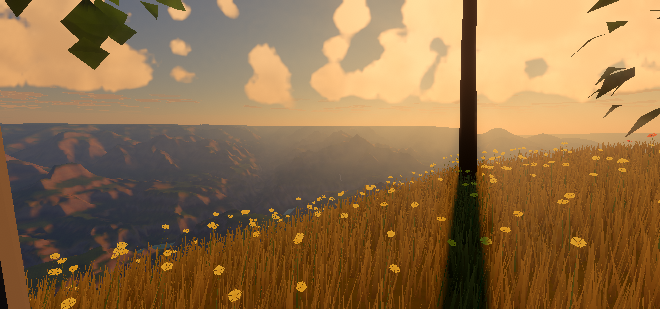
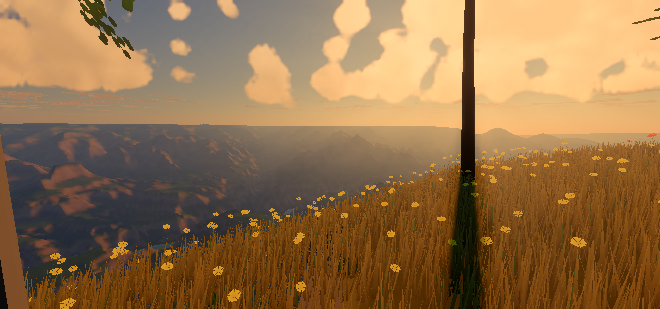
Fifth painted delivery: handoff, roadmap, guide, reference pictures
Claude-Session: https://claude.ai/code/session_01R5BrhzGbvM5Mm4BP5vZBtE

diff --git a/docs/PROGRESS.md b/docs/PROGRESS.md
@@ -6,11 +6,11 @@ changes behaviour.
 
 ## Where things stand (read this first)
 
-### HANDOFF: work in flight (trees, fifth pass) — read this before anything else
+### HANDOFF: the trees' fifth pass — delivered; read this before anything else
 
-*Written 2026-11-22 while the work was under way, at the owner's request ("write a handoff
-so the next session knows exactly what you're doing"). Kept current after every step; the
-last line of this block says how far it got.*
+*Written 2026-11-22 at the owner's request ("write a handoff so the next session knows
+exactly what you're doing"). The fifth pass is merged and live; this block says what it
+is, what is weak, and what to do next.*
 
 **What the owner said** (twice, the second time word for word the same): *"Make them look
 even better, the trees still don't look anywhere near the reference. I want an almost
@@ -24,8 +24,7 @@ silhouettes in layers, each lighter and bluer with distance. Low-polygon lumps a
 triangles (the fourth delivery, live as build 9d6e42e) are a different style altogether:
 no tuning of them gets there.
 
-**What is being built** (branch `ccr-6f4f9272-64jkgl`, commit dfdc7d1 and after; **not
-merged, not live**):
+**What was built:**
 - `src/life/treeAtlasLayout.js`: where things are in the trees' picture (2048 x 1024:
   twelve sprays of 256 on the left, 8 shapes x 3 variants of whole trees on the right).
 - `src/life/treeAtlasGen.js`: draws that picture by rule, in plain JavaScript (runs in
@@ -54,44 +53,37 @@ merged, not live**):
 - Triangles a tree are now 150 to 420 close, 100 to 260 near, 6 far (they were up to
   2 200, 800, 380): much less geometry, more cut-out pixels. Not measured on the phone.
 
-**How far it got, and what is next, in order:**
-1. Done: the picture, the meshes, the shader, the preview (the sheets look like the
-   references' trees: see `docs/shots/trees_sheet_1.png`, `_2.png` once refreshed).
-2. In progress: the first pictures in the real game (`$S/shoot.sh t1 ...`: spruce forest
-   `lat=36.42&lon=247.87&heading=80&pitch=4&fov=60&east=9&north=4`, the opening view,
-   the hardwood forest `lat=44.05&lon=287.4&heading=290&pitch=8&fov=60&t=8.5`, from the
-   air `...&heading=75&pitch=-12&fov=60&alt=120`). Look for: shader errors (a new sampler
-   and `aUv`), cards seen edge-on, foliage too thin or too see-through, far silhouettes
-   too soft at 115 m, the crown's light and dark.
-3. Then tune toward the references: darker, bluer-green conifers with the trunk dark;
-   stronger dark-to-light across each crown; far trees flatter and darker (silhouettes
-   in layers); the aspen's near mesh is thin; the bush's top spray is too large.
-4. Then: `./scripts/build-check.sh`, `npm run smoke` (checks every shader against the
-   phone's limits), refresh `docs/shots/` (forests, opening view, tree sheets), add the
-   picture to `docs/ASSETS.md` (made by our own script: no outside source), update
-   `docs/ARCHITECTURE.md` ("Tree shapes"), merge by pull request, send the checkpoint and
-   **ask for an Earth benchmark** (cut-out foliage is new cost on the phone).
-5. Known and not yet dealt with: bare trees in winter (cards shrink to the trunk; the
-   far silhouette keeps its leaves); autumn colour on wood pixels inside cards is right
-   (wood is told apart by the picture's third byte); the leaves that fall (`leaves.js`)
-   are untouched; the palm keeps plain faces.
+**Delivered** (the fifth painted delivery): all of the above, merged and live. Tested:
+build check, `npm run smoke` (16 checks, every shader within the phone's limits),
+pictures in the game of the spruce forest, the hardwood forest, the forest from the air
+and over the tree tops to the horizon, the opening view; the tree sheets. A closed
+forest's trees are 166 000 triangles (they were 620 000 at the fourth delivery).
+Reference pictures: `docs/shots/earth_forest_spruce.png`, `_hardwood`, `_air`, `_tops`,
+`trees_sheet_1.png`, `_2.png`.
 
-**State at the last update of this block:** steps 1 to 3 done, step 4 under way. Seen in
-the game: the spruce forest, the hardwood forest (twice; trunks slimmed), the forest from
-the air and over the tree tops, the opening view; no shader errors; a closed forest's
-trees are 166 000 triangles (they were 620 000). Reference pictures and the two tree
-sheets in `docs/shots/` are refreshed; `docs/ASSETS.md` and `docs/ARCHITECTURE.md` are
-written. Running as this is written: build `dist_t3` (the last shader change: light
-through foliage against the Sun 0.4), two pictures, then `npm run smoke` on it
-(`$S/smoke_t3.txt`, must end `SMOKE 0`). **Left**: if smoke passes, open the pull
-request into `main`, merge, confirm the deploy, send the checkpoint and ask for an Earth
-benchmark. Weak still, for the next pass: the hardwood canopy seen from under is evenly
-bright (the references have deep shade among the leaves); over the tree tops toward a
-low Sun the forest is nearly black; leaves very near the camera are soft (the sprays are
-256 pixels); winter (see 5 above).
+**Asked of the owner:** how the trees look now against the references, and an **Earth
+benchmark in Smooth** (cut-out foliage is new cost on the phone: many cards over each
+other, each cut by a `discard`; nothing of it is measured).
 
-
-*Handoff written at the fourth delivery of milestone 11 (the painted look).*
+**What to do next, in order:**
+1. With a benchmark: read it first. If forests are slow, the cards are the suspect:
+   fewer cards in a bunch (`bunches(... n ...)` in `treeGeometry.js`), `CLOSE_M` and
+   `NEAR_M` down (`trees.js`), the governor's `tree-leaves` and `trees-far` steps.
+2. With "still not like the reference": put the owner's nine pictures beside ours and
+   name the difference before changing anything. What is known to be weak:
+   - the hardwood canopy seen from under is evenly bright (the references' grove has deep
+     shade among the leaves and bright flecks);
+   - leaves very near the camera are soft (the sprays are 256 pixels: a larger picture,
+     or a second, finer one for the close mesh);
+   - far trees are their near mesh's silhouette with its light baked flat: the
+     references' far forest is flat dark shapes in layers, each lighter and bluer with
+     distance (the air does some of this; the trees' own tone could do more);
+   - conifers could be darker and bluer, with the trunk nearly black against them;
+   - only the fir, the pine, the hardwood and the aspen were seen in the game; the
+     tropical tree, the acacia, the bush and the palm only in the preview;
+   - winter: cards shrink to the trunk, and the far silhouette keeps its leaves;
+   - the stability test was not run on the cut-outs (they may shimmer in motion).
+3. Then the rest of milestone 11 (see below).
 
 - **The goal** (owner, 2026-11-20): the best possible product a Samsung Galaxy S23 Ultra
   runs without lag (`CLAUDE.md`, "The one goal"). Helpers: workflows only for the most

diff --git a/CLAUDE.md b/CLAUDE.md
@@ -181,6 +181,7 @@ npm run worlds         # every world opens at its start with ground drawn and no
 npm run lakes          # Earth's lakes and rivers against the real ones, without a browser (15 s; -- --list, -- utah vermont)
 node scripts/play-profile.mjs [--world earth] [--at "21.7,284.7,40"] [--floor] [--seconds 120] [--shot out.png]   # the real game in play mode at a place: the page's work by part, the governor's level, patches built (--floor: every saving on)
 node scripts/tree-preview.mjs [--out dir] [--variant 1] [--only 0,2] [--below]   # every tree shape at its three distances, drawn without a browser in seconds (PNG sheets)
+node scripts/make-tree-atlas.mjs [--look file.png]   # the trees' picture (public/data/tree_atlas.png): run again after changing a spray or a tree shape
 node scripts/check-ephemeris.mjs   # every orbit and spin against JPL Horizons (no network; fails beyond a tolerance)
 node scripts/peek.mjs --world io [--shot ledge | --lat .. --lon ..] [--pan 4]   # a CPU sketch of the view from a place, in seconds: for choosing sites and times
 python3 scripts/fetch-worlds.py [job ...]   # the maps of the worlds of milestone 6 (5 GB of originals into .cache/maps), see docs/ASSETS.md
@@ -536,5 +537,9 @@ finished benchmark leaves its text in `window.__benchResult`.
 - A cover set on one level of a 3-D noise is not the cover of the sky: a layer as deep as
   the noise's period shows the union of all its levels from below. "60 %" was a grey lid.
   Judge the amount of cloud from above and from below, not from the number.
+- "Closer to the reference" asked three times running means the technique is wrong, not
+  the tuning. The owner's trees are finely cut foliage on a skeleton, shaded as one mass;
+  three deliveries polished low-polygon lumps before the trees were rebuilt as cut-out
+  cards. When a look is asked for by pictures, name what the pictures are made of first.
 - Aerial-perspective slices must not change spacing across the horizon (neighbouring
   rays would disagree and draw a band); only the ray-march stops at the ground.

diff --git a/docs/ROADMAP.md b/docs/ROADMAP.md
@@ -22,7 +22,7 @@ owner's reply or phone results), `done`.
 | 8 | Things to do | done |
 | 9 | Earth's surface | done |
 | 10 | A living Earth (owner, with the fourth phone results): the whole planet in real detail, seas, lakes and rivers, real forests, clouds to fly through, weather | done |
-| 11 | The painted look (owner: a new art direction for the whole game, Earth and its forests first) | fourth delivery sent (Earth: trees rebuilt from their skeletons, grass and flowers, a full sky of clouds that keep their place, the land from the air, ground loaded ahead; 57 fps on the phone at the third); the other worlds to follow |
+| 11 | The painted look (owner: a new art direction for the whole game, Earth and its forests first) | fifth delivery sent (Earth: trees as cut-out foliage on a skeleton, far trees as silhouettes, grass and flowers, a full sky of clouds that keep their place, the land from the air, ground loaded ahead; 57 fps on the phone at the third); the other worlds to follow |
 
 ## 1. Phone link and measurement
 
